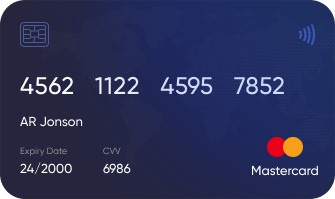
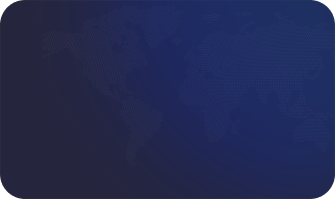
Edit Card Section

diff --git a/lib/presentation/home/card_section.dart b/lib/presentation/home/card_section.dart
@@ -8,37 +8,68 @@ import 'package:flutter_screenutil/flutter_screenutil.dart';
 import 'package:flutter_svg/flutter_svg.dart';
 import 'package:provider/provider.dart';
 
-
 class BuildCardSection extends StatelessWidget {
   const BuildCardSection({super.key});
 
   @override
   Widget build(BuildContext context) {
     return Container(
-      padding: EdgeInsets.all(16),
+      padding: EdgeInsets.symmetric(horizontal:20.w, vertical: 20.h),
       decoration: BoxDecoration(
-        color: Colors.blue[900],
-        borderRadius: BorderRadius.circular(15),
+        // color: Colors.blue[900],
+        image: DecorationImage(
+            image: AssetImage(
+              ImageAssets.card,
+            ),
+            fit: BoxFit.fill),
+        borderRadius: BorderRadius.circular(25),
       ),
       child: Column(
         crossAxisAlignment: CrossAxisAlignment.start,
         children: [
-          Text('4562 1122 4595 7852',
-              style: TextStyle(color: Colors.white, fontSize: 22)),
-          SizedBox(height: 10),
           Row(
-            mainAxisAlignment: MainAxisAlignment.spaceBetween,
             children: [
-              Text('AR Jonson', style: TextStyle(color: Colors.white)),
-              Text('Mastercard', style: TextStyle(color: Colors.white)),
+              SvgPicture.asset(IconAssets.card_icon),
+              Spacer(),
+              SvgPicture.asset(IconAssets.union),
+
             ],
           ),
-          SizedBox(height: 10),
+          20.height,
+          Text('4562 1122 4595 7852',
+              style: TextStyle(color: Colors.white, fontSize: 22)),
+          20.height,
           Row(
             mainAxisAlignment: MainAxisAlignment.spaceBetween,
             children: [
-              Text('Exp: 24/2000', style: TextStyle(color: Colors.white)),
-              Text('CVV: 6986', style: TextStyle(color: Colors.white)),
+              PrimaryText('AR Jonson',color: Colors.white,fontWeight:FontWeight.w600,),
+            ],
+          ),
+         20.height,
+          Row(
+            children: [
+              Column(
+                children: [
+                  PrimaryText('Exp Date',color: ColorManager.white,fontSize: 10.sp,),
+                  PrimaryText('24/2000',color: ColorManager.white,fontSize: 12.sp,),
+                ],
+              ),
+              20.width,
+              Column(
+                children: [
+                  PrimaryText('CVV',color: ColorManager.white,fontSize: 10.sp,),
+                  PrimaryText('6986',color: ColorManager.white,fontSize: 12.sp,),
+                ],
+              ),
+              Spacer(),
+              Column(
+                children: [
+                  SvgPicture.asset(IconAssets.master_card),
+                  6.height,
+                  PrimaryText('Mastercard',color: ColorManager.white,fontSize: 11.sp,),
+                ],
+              ),
+
             ],
           ),
         ],

diff --git a/lib/presentation/card/show_cards_screen.dart b/lib/presentation/card/show_cards_screen.dart
@@ -3,6 +3,7 @@ import 'package:dakakeen/config/theme/assets_manager.dart';
 import 'package:dakakeen/config/theme/color_manager.dart';
 import 'package:dakakeen/core/common_widget/primary_button.dart';
 import 'package:dakakeen/core/extensions/empty_space_extension.dart';
+import 'package:dakakeen/presentation/home/card_section.dart';
 import 'package:flutter/material.dart';
 import 'package:flutter_screenutil/flutter_screenutil.dart';
 import 'package:flutter_svg/flutter_svg.dart';
@@ -17,7 +18,7 @@ class CardsScreen extends StatelessWidget {
 
   @override
   Widget build(BuildContext context) {
-    return  Scaffold(
+    return Scaffold(
       body: Padding(
         padding: EdgeInsets.symmetric(horizontal: 20.w, vertical: 20.h),
         child: Column(
@@ -29,7 +30,10 @@ class CardsScreen extends StatelessWidget {
                 GestureDetector(
                   onTap: () => sl<NavigationService>().pop(),
                   child: CircularCard(
-                    widget: SvgPicture.asset(IconAssets.arrow_back, color: Colors.black, ),
+                    widget: SvgPicture.asset(
+                      IconAssets.arrow_back,
+                      color: Colors.black,
+                    ),
                     width: 45.w,
                     height: 45.h,
                   ),
@@ -40,17 +44,22 @@ class CardsScreen extends StatelessWidget {
                   fontWeight: FontWeight.w500,
                   fontSize: 18.sp,
                 ),
-
               ],
             ),
             40.height,
-            Image.asset(ImageAssets.card ,fit: BoxFit.fitWidth, width: double.infinity,),
+            BuildCardSection(),
             20.height,
-            Image.asset(ImageAssets.card ,fit: BoxFit.fitWidth, width: double.infinity,),
-
+            BuildCardSection(),
             200.height,
-            PrimaryButton(color: ColorManager.primary, onPressed: () =>  sl<NavigationService>().navigateTo(Routes.add_card), child:  const PrimaryText('Add Card +', color: Colors.white,),)
-
+            PrimaryButton(
+              color: ColorManager.primary,
+              onPressed: () =>
+                  sl<NavigationService>().navigateTo(Routes.add_card),
+              child: const PrimaryText(
+                'Add Card +',
+                color: Colors.white,
+              ),
+            )
           ],
         ),
       ),

diff --git a/lib/presentation/card/add_card_screen.dart b/lib/presentation/card/add_card_screen.dart
@@ -4,6 +4,7 @@ import 'package:dakakeen/config/theme/assets_manager.dart';
 import 'package:dakakeen/config/theme/color_manager.dart';
 import 'package:dakakeen/core/common_widget/primary_textfiled.dart';
 import 'package:dakakeen/core/extensions/empty_space_extension.dart';
+import 'package:dakakeen/presentation/home/card_section.dart';
 import 'package:flutter/gestures.dart';
 import 'package:flutter/material.dart';
 import 'package:flutter_screenutil/flutter_screenutil.dart';
@@ -76,11 +77,7 @@ class _AddCardScreenState extends State<AddCardScreen> {
                   ],
                 ),
                 20.height,
-                Image.asset(
-                  ImageAssets.card,
-                  fit: BoxFit.fitWidth,
-                  width: double.infinity,
-                ),
+               BuildCardSection(),
                 30.height,
                 const PrimaryText(
                   'Cardholder Name',

diff --git a/lib/presentation/card/card_screen.dart b/lib/presentation/card/card_screen.dart
@@ -1,5 +1,6 @@
 import 'package:dakakeen/config/theme/color_manager.dart';
 import 'package:dakakeen/core/extensions/empty_space_extension.dart';
+import 'package:dakakeen/presentation/home/card_section.dart';
 import 'package:dakakeen/presentation/home/transactions_list_section.dart';
 import 'package:flutter/material.dart';
 import 'package:flutter_screenutil/flutter_screenutil.dart';
@@ -48,11 +49,7 @@ class CardScreen extends StatelessWidget {
                 ],
               ),
               40.height,
-              Image.asset(
-                ImageAssets.card,
-                fit: BoxFit.fitWidth,
-                width: double.infinity,
-              ),
+             BuildCardSection(),
               30.height,
               const TransactionsListSection(),
               30.height,

diff --git a/lib/presentation/statistic/statistics_screen.dart b/lib/presentation/statistic/statistics_screen.dart
@@ -115,9 +115,9 @@ interval: 1                    ),
                         ],
                         isCurved: true,
 
-                        dotData: FlDotData(show: true,),
+                        dotData: const FlDotData(show: true,),
                         belowBarData: BarAreaData(show: false),
-                        gradient: LinearGradient(colors: [Colors.blueGrey,ColorManager.primary]),
+                        gradient: const LinearGradient(colors: [Colors.blueGrey,ColorManager.primary]),
                         color: ColorManager.primary,
                         barWidth: 5,
                       ),

diff --git a/lib/config/theme/assets_manager.dart b/lib/config/theme/assets_manager.dart
@@ -18,7 +18,10 @@ class IconAssets {
   static const String chart = "$iconsPath/chart.svg";
   static const String credit_cards = "$iconsPath/credit-cards.svg";
   static const String master_card = "$iconsPath/masterCard.svg";
+  static const String card_icon = "$iconsPath/card_icon.svg";
   static const String notification = "$iconsPath/Bell, Notification.svg";
+  static const String union = "$iconsPath/Union.svg";
+
 
 
   static const String loan = "$iconsPath/Loan.svg";

diff --git a/lib/presentation/home/home_screen.dart b/lib/presentation/home/home_screen.dart
@@ -32,11 +32,7 @@ class HomeScreen extends StatelessWidget {
               const BuildProfileSection(),
               32.height,
 
-              Image.asset(
-                ImageAssets.card,
-                width: double.infinity,
-                fit: BoxFit.fill,
-              ),
+            BuildCardSection(),
               30.height,
               const TransactionButtons(),
               20.height,
